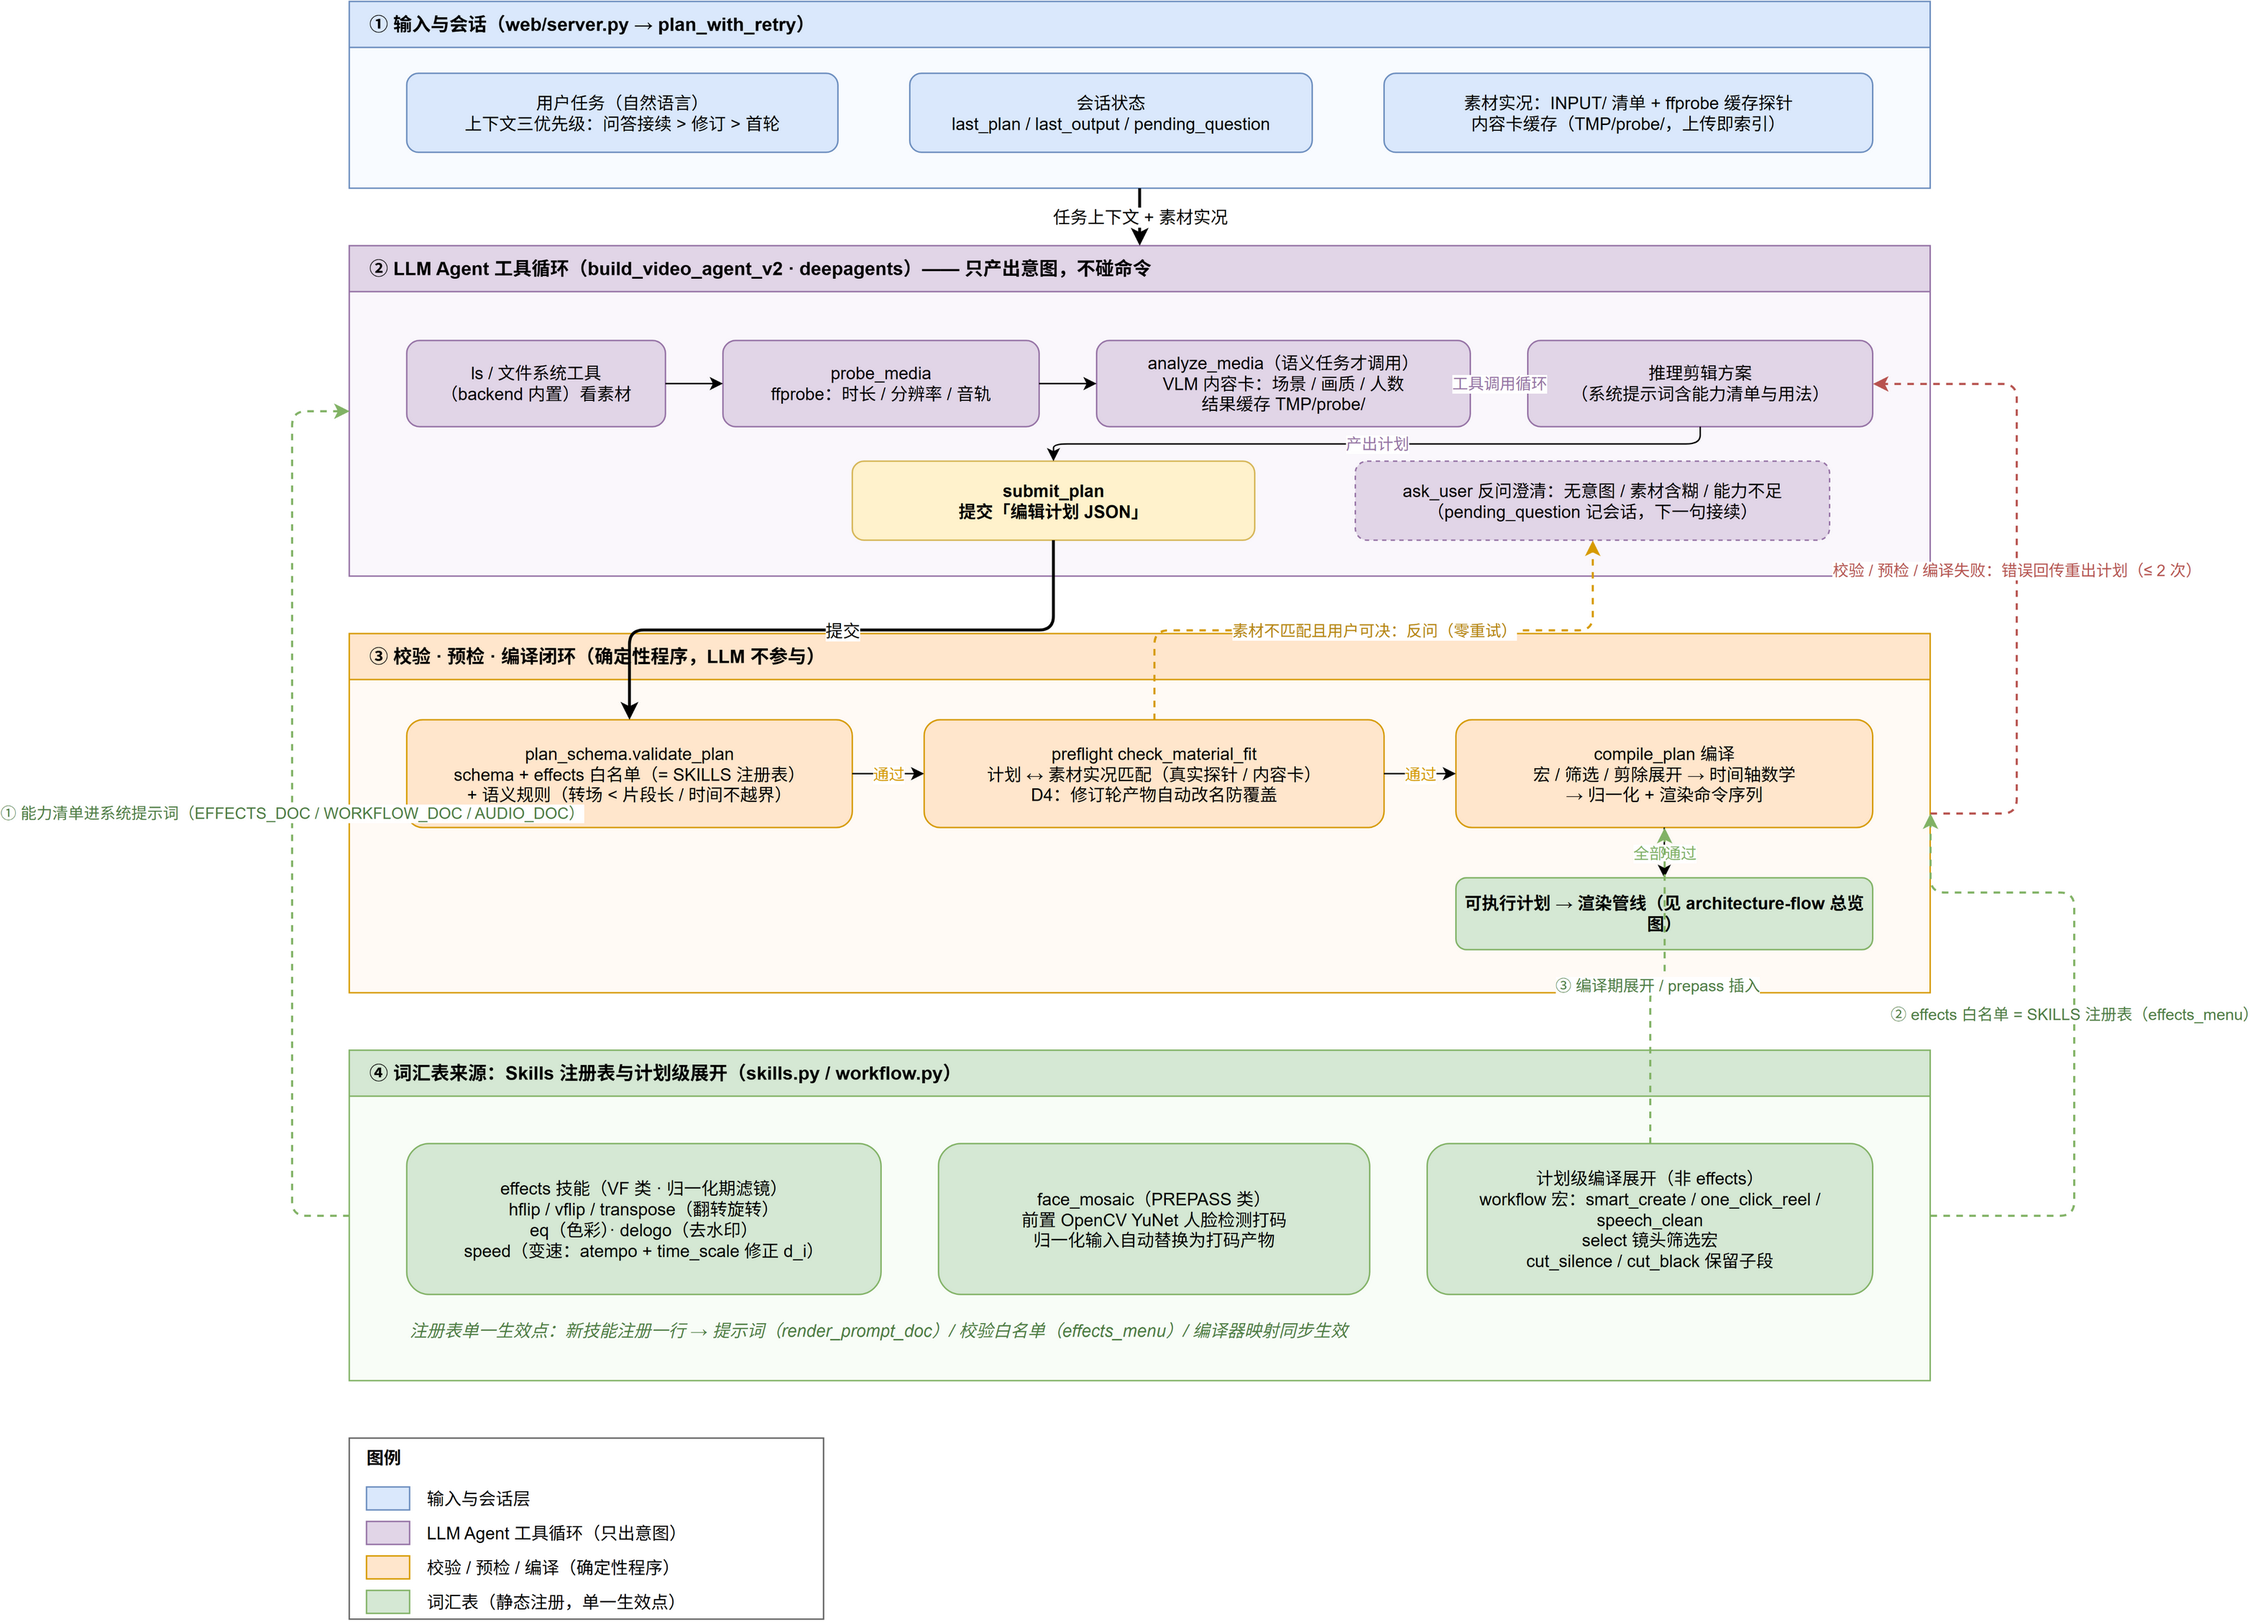
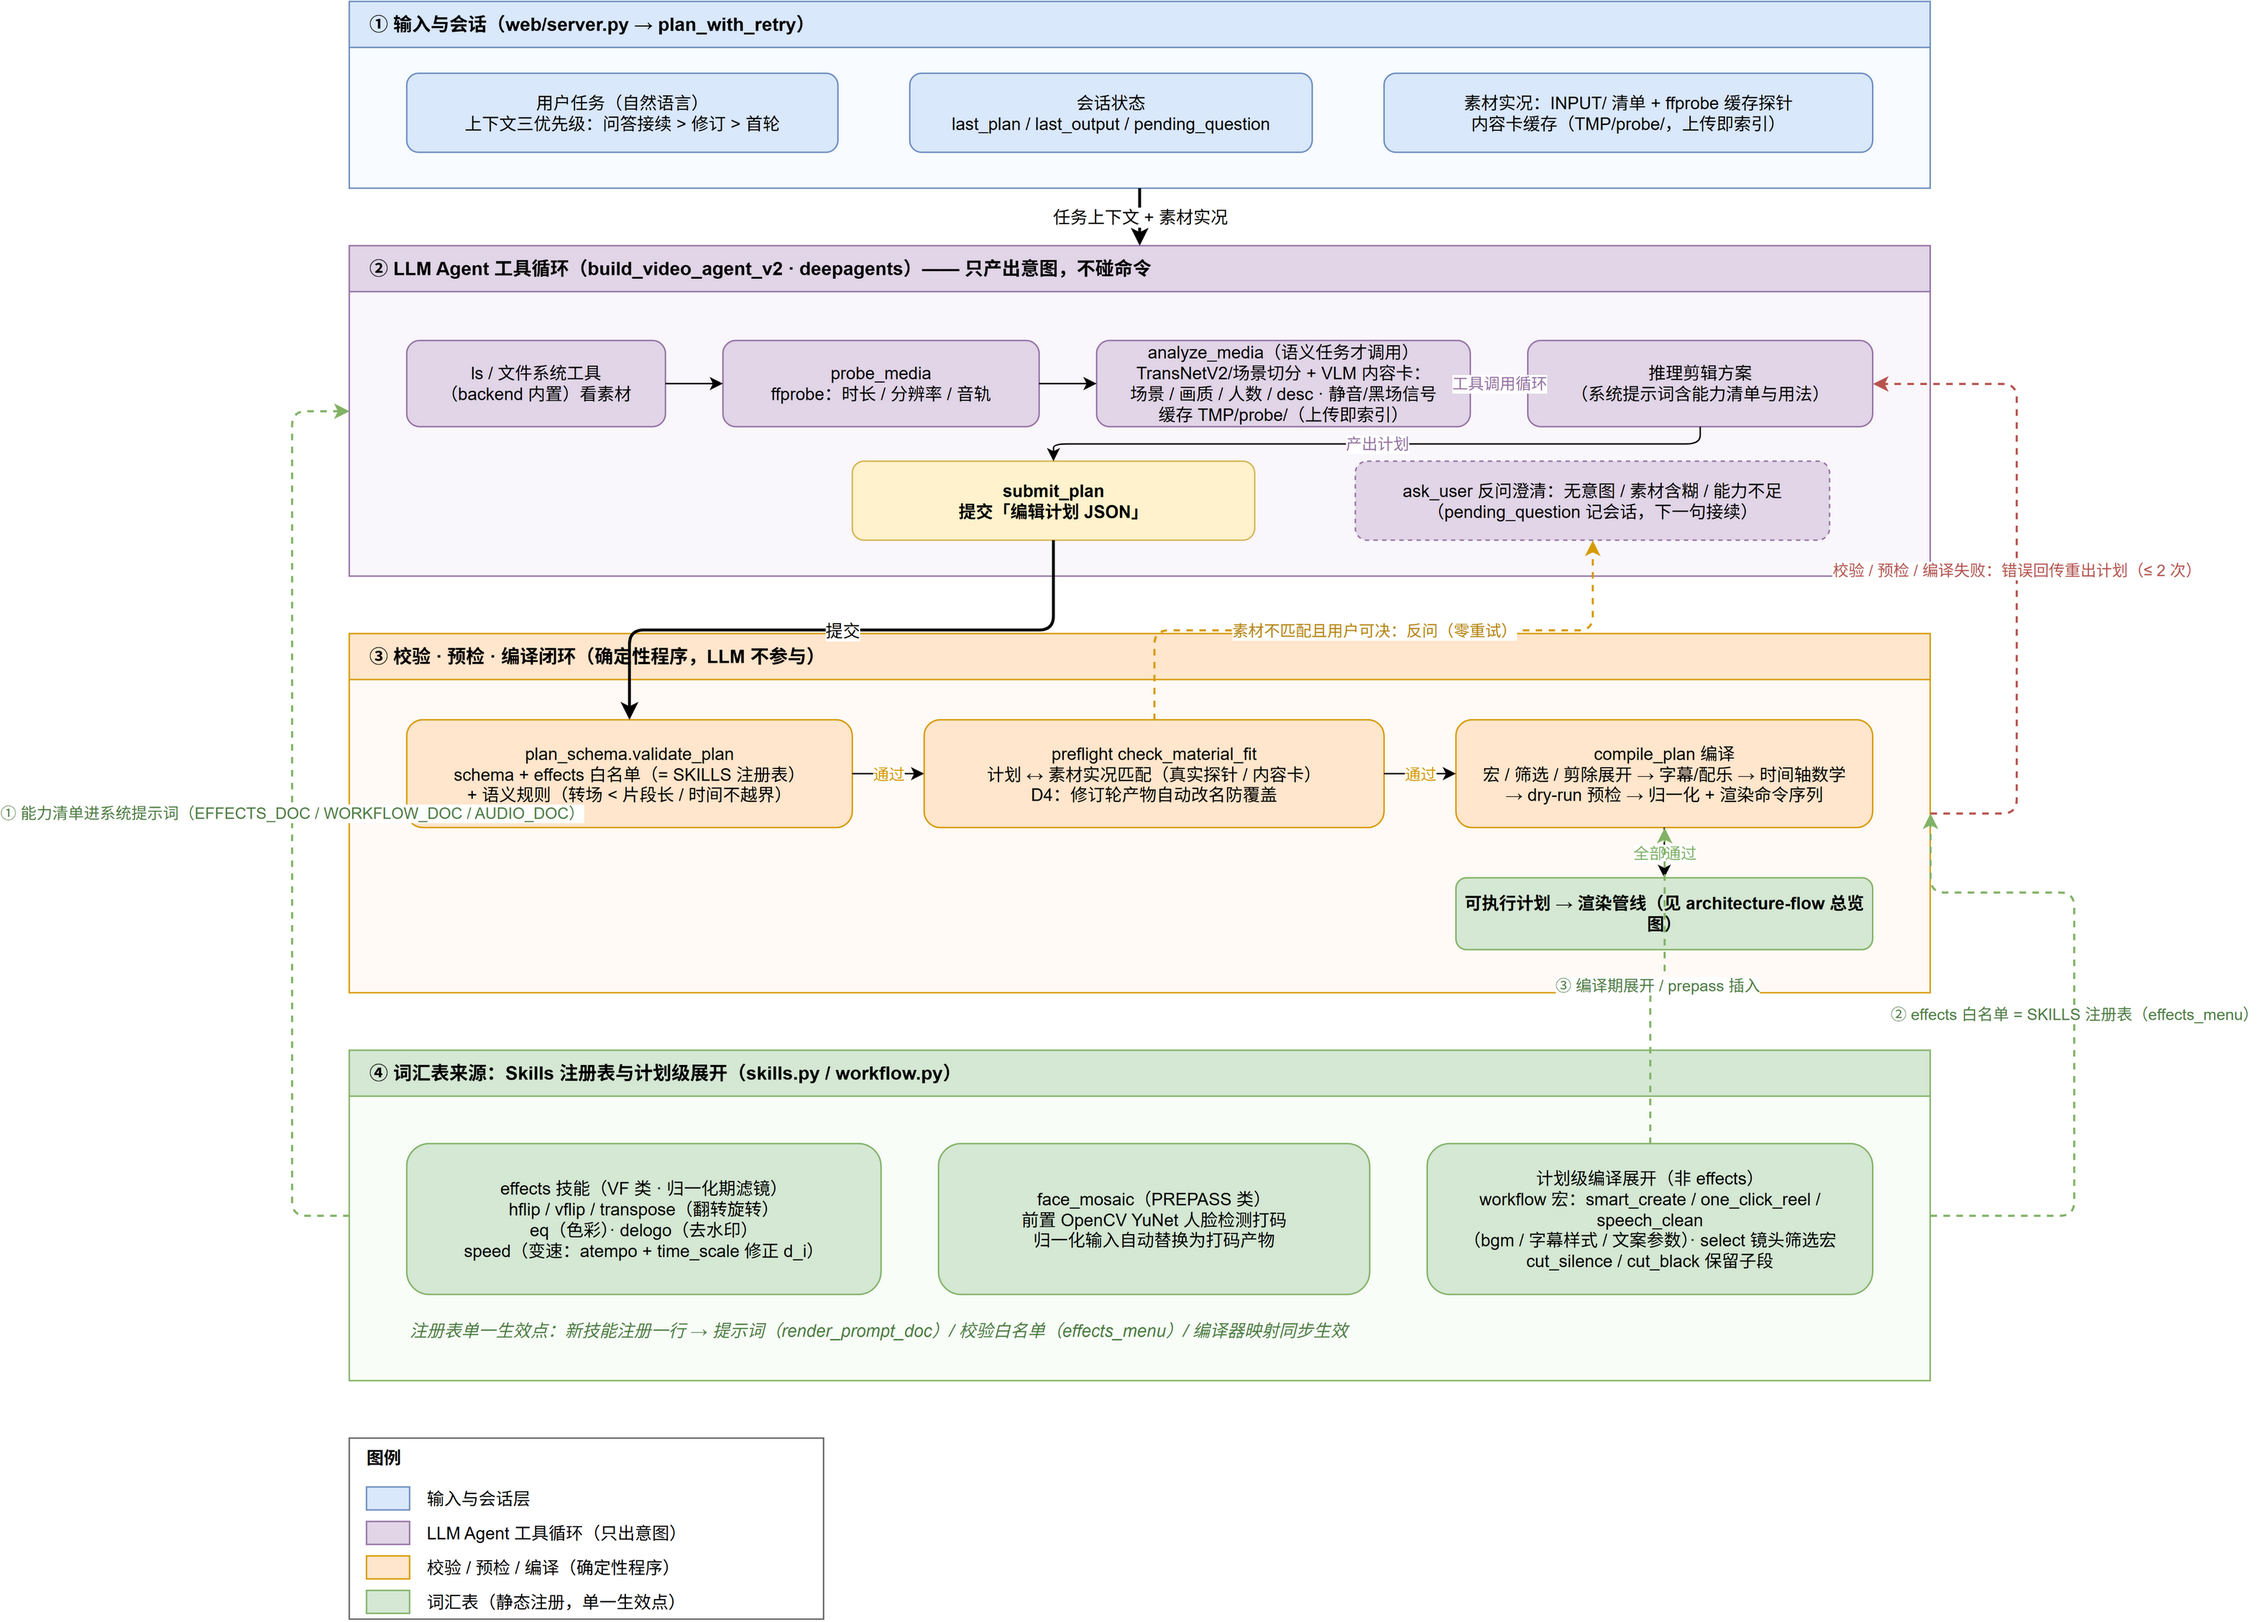
docs: 架构文档同步至 V7.10 —— overview 补齐工具清单/编译流水线/模块清单/文档索引；四张架构图更新（flow 补宏与预检/分层图去过期标记并补 TransNet·V7.7/计划生成图补信号与预检），全部重导内嵌 XML 的 PNG 并把分层图挂进 overview 引用

Changed region(s): [[0.4987, 0.2171, 0.6234, 0.2791], [0.6546, 0.7444, 0.8104, 0.7754], [0.6546, 0.4652, 0.8104, 0.4962]]

diff --git a/docs/architecture-overview.md b/docs/architecture-overview.md
@@ -1,13 +1,18 @@
 # SmartTrimAgent 实现总览
 
-> **一句话**：用户用自然语言描述剪辑需求 → LLM 产出「编辑计划 JSON」→
-> 下游编译器把计划编译成确定性命令（ffmpeg / OpenCV）执行并回验。
+> **一句话**：用户用自然语言描述剪辑需求 → LLM 产出「编辑计划 JSON」（或挑一个
+> **workflow 宏**只填参数）→ 下游编译器把计划编译成确定性命令
+> （ffmpeg / OpenCV）执行并回验。
 >
 > 配图：[architecture-flow.drawio](./architecture-flow.drawio)（可编辑）·
 > [architecture-flow.png](./architecture-flow.png)
 > 细节图（计划如何生成：Agent 工具循环 / 校验闭环 / Skills 注册表）：
 > [architecture-plan-generation.drawio](./architecture-plan-generation.drawio) ·
 > [architecture-plan-generation.png](./architecture-plan-generation.png)
+> 模块分层图（入口 / Agent / 感知 / 编译器 / 执行 + smart_create 流程页）：
+> [architecture.drawio](./architecture.drawio) ·
+> [architecture-p1-layers.drawio.png](./architecture-p1-layers.drawio.png) ·
+> [architecture-p2-smart-create.drawio.png](./architecture-p2-smart-create.drawio.png)
 
 ![架构流程](./architecture-flow.png)
 
@@ -22,13 +27,19 @@
 
 ## ② LLM 做了什么
 
-整个 Agent 环节只做三件事：
+Agent 环节的工具清单（deepagents 工具循环，模型自己决定节奏）：
 
-1. **`ls INPUT/`** —— 看有哪些素材
+1. **`ls INPUT/`** —— 看有哪些素材（文件系统工具，backend 内置）
 2. **`probe_media`** —— 探测真实时长 / 分辨率 / 有无音轨（拿到数据才能算裁剪点）
-3. **`submit_plan`** —— 提交编辑计划 JSON
+3. **`analyze_media`**（V4，语义任务才调用）—— 建立镜头级内容卡：TransNetV2 /
+   场景切分出边界，VLM 打标签（人数/场景/活动/画质/desc 画面描述），静音/黑场
+   信号并入；结果 sidecar 缓存，上传即索引，第二次零成本
+4. **`submit_plan`** —— 提交编辑计划 JSON（唯一产出物）
+5. **`ask_user`**（V3.1）—— 意图含糊 / 要求超出素材实际 / 超出能力时**先反问**，
+   与 submit_plan 互斥，不算失败
 
-**唯一产出物就是那份 JSON**，它不含任何 ffmpeg 语法，也不含任何时间轴数学：
+**唯一产出物就是那份 JSON**，它不含任何 ffmpeg 语法，也不含任何时间轴数学。
+除了手写 clips，还有两条「少写甚至不写」的路：
 
 ```json
 {
@@ -43,24 +54,43 @@
 }
 ```
 
+- **workflow 宏（V7）**：`{"workflow": {"name": "smart_create", "budget_seconds": 25}}`
+  ——LLM 只挑工作流 + 填少量参数（预算/关键词/配乐/字幕样式），「粗筛 → 选材 →
+  编排 → 文案 → 配乐」全部由编译器确定性展开（见
+  [v7.0-oneclick-and-perf.md](./v7.0-oneclick-and-perf.md)）；
+- **select 宏（V5）**：`{"select": {"sources": [...], "where": {...}, "budget_seconds": 30}}`
+  ——按内容卡标签筛选镜头，编译器从卡片确定性生成 clips，模型不手抄时间区间。
+
 ## ③ 下游做了什么
 
-编译器拿到计划后三步走，全部是确定性程序：
+编译器拿到计划后走一条确定性流水线（LLM 不参与）：
 
-1. **校验** —— schema + 白名单 + 语义规则（时间不越界、引用存在、参数合法）
-2. **推导时间轴数学** —— 片段时长 `d_i`、各片段起点 `S_i`、转场重叠后的总时长 `D`、overlay 绝对时间
-3. **生成命令序列** —— 按三个阶段展开：
+1. **校验** —— schema + 白名单 + 语义规则（时间不越界、引用存在、参数合法）；
+   Preflight 以**服务端真实探针**交叉比对计划与素材实况，模型修得了的错误回传
+   重出、只有用户能决的直接转反问（V3.1 错误分流）
+2. **宏与剪除展开** —— workflow 宏（粗筛 culling → select 选材 → 装填 → 文案
+   提供器链 plan→llm→labels → 字幕样式 bottom/credits → 自动配乐 `_attach_bgm`）；
+   `select` 从内容卡确定性生成 clips；`cut_silence` / `cut_black` 实时跑
+   silencedetect/blackdetect，静音/黑场区间**取补集**展开成保留子段
+3. **推导时间轴数学** —— 片段时长 `d_i`（含变速缩放）、各片段起点 `S_i`、
+   转场重叠后的总时长 `D`、overlay 绝对时间；smart_create 的文案在此之后
+   逐片段绑定成 text overlay
+4. **dry-run 语法预检**（T5）—— 用 0.5s 合成素材试跑整条滤镜链，坏滤镜
+   秒级拦截（V7.8 修复了 xfade offset 在预检里死锁的问题）
+5. **生成命令序列** —— 按阶段展开：
 
 | 阶段 | 干什么 | 执行者 |
 |---|---|---|
 | `detect` | 人脸检测打码（仅当计划里声明了 `face_mosaic`） | **OpenCV YuNet** |
-| `normalize` | 把异构素材统一成同分辨率 / 帧率 / 音轨 | ffmpeg |
-| `render` | 转场 + 画中画 + 花字 + 输出 | ffmpeg |
+| `normalize` | 把异构素材统一成同分辨率 / 帧率 / 音轨；clip 级 `audio`（静音/换声，V7.7）在此落地；产物**内容寻址缓存**（V7），未改片段零重编码 | ffmpeg |
+| `render` | 转场 + 画中画 + 花字/字幕 + BGM 混音（`original` 缺省 mute，V7.7）+ 按档位编码输出 | ffmpeg |
 
 `detect` 阶段的存在方式值得注意：编译器识别到 `face_mosaic` 后，**额外插入一条 Python 子命令**，
 并把后续归一化命令的输入从 `INPUT/a.mp4` 悄悄替换成打码后的 `TMP/c1_masked.mp4`。
 
-生成后由 ④ 层逐条 `subprocess` 执行，最后用 ffprobe 回验产物时长。
+生成后由 ④ 层逐条 `subprocess` 执行（detect/normalize 2 路并行，V7），最后用
+ffprobe 回验产物时长；正式档随片导出 **EDL（CMX3600）/ CSV 时间线**（V6），
+`done` 事件带审阅报告（剪除明细 / 筛选命中与落选原因 / 效果清单 / 配乐决策）。
 
 ### 渲染档位（V7.7）
 
@@ -84,25 +114,42 @@
 所以新增能力（人声分离、画面超分等）只需在编译器里加一条 `effect → 命令` 的映射，
 LLM 侧只要认识那个名字就够了。
 
-## 失败与重试
+## 失败与重试（错误按「谁能修」分流）
 
-- **Web 入口**：计划校验失败 → 把编译器的中文错误回传 LLM 重出计划（最多 2 次）
-- **CLI**：校验失败直接退出并打印错误列表
+- **模型修得了的**（schema 违规、滤镜名错、引用不存在）：编译器的中文错误回传
+  LLM 重出计划（≤2 次，连续同错提前收手；CLI 与 Web 共用同一闭环）
+- **只有用户能决的**（要前 50 秒但素材只有 12 秒、无声轨却要配乐）：Preflight
+  确定性判定后**直接反问用户**，带真实数据与修复选项，零重试
+- **agent 自己反问**（意图含糊 / 超出能力）：`ask_user` 是合法出口，不算失败
 
 ## 模块清单
 
 | 文件 | 职责 |
 |---|---|
-| `video_editing/video_agent.py` | Agent 构建、计划 schema 提示词、`extract_plan()` |
-| `video_editing/plan_schema.py` | 计划校验：白名单 + 语义规则 |
-| `video_editing/plan_compiler.py` | 编译器五步：校验 → 推导 → 生成 → 执行 → 回验 |
+| `video_editing/video_agent.py` | Agent 构建、计划 schema 提示词、`extract_plan()` / 重试三分流 |
+| `video_editing/workflow.py` | workflow 宏注册表：one_click_reel / speech_clean / smart_create；文案提供器链、字幕样式预设、自动配乐（V7.x） |
+| `video_editing/plan_schema.py` | 计划校验：白名单 + 语义规则 + Preflight 素材匹配（`check_material_fit`） |
+| `video_editing/plan_compiler.py` | 编译器：宏/剪除展开 → 时间轴推导 → 铺字幕 → dry-run 预检 → 生成 → 并行执行 → 回验 → EDL/CSV 导出 |
+| `video_editing/skills.py` | Skill 注册表：效果校验 / 命令翻译 / 提示词文档单一生效点；audio 块校验 |
+| `video_editing/content_analysis.py` | 感知层：TransNetV2/场景切分 + VLM 打标（含 desc）+ 信号并入 → 内容卡（sidecar 缓存） |
+| `video_editing/transnet.py` | TransNetV2 镜头边界检测（V7.9/V7.10，可选依赖，失败优雅回退） |
+| `video_editing/signal_detection.py` | 静音 / 黑场确定性信号（silencedetect / blackdetect） |
+| `video_editing/shot_select.py` | select 宏与装填纯函数：条件过滤 + 预算贪心/轮转 + rejected 原因 |
+| `video_editing/culling.py` | 粗筛废料判定（V6，纯规则；只建议，用户一键应用） |
+| `video_editing/timeline_export.py` | EDL（CMX3600）/ CSV 时间线导出（V6） |
 | `video_editing/face_mosaic.py` | 人脸检测打码（YuNet + 跟踪平滑 + 音频保留） |
-| `video_editing/ffmpeg_exec.py` | ffmpeg / ffprobe 执行器（未安装时返回可读错误） |
-| `web/server.py` · `web/index.html` | Web 入口：素材上传 + NDJSON 事件流 |
-| `model.py` | 模型解析（`.env` 优先级链） |
+| `video_editing/ffmpeg_exec.py` | ffmpeg / ffprobe 执行器（进程跟踪可取消；`run_binary` 供模型管道） |
+| `web/server.py` · `web/static/js/` | Web 入口：素材上传/索引、NDJSON 事件流、参数卡回改 `/api/replan`、粗筛端点 |
+| `model.py` | 模型解析（`.env` 优先级链；`get_vlm_model` 独立视觉模型） |
 
 ## 相关文档
 
+- [v7.9-transnet-rescue.md](./v7.9-transnet-rescue.md) / [v7.7-preview-quality.md](./v7.7-preview-quality.md) / [v7.7-audio-control.md](./v7.7-audio-control.md) / [v7.5-auto-bgm.md](./v7.5-auto-bgm.md) —— V7.5～V7.10 各子版本
+- [v7.0-oneclick-and-perf.md](./v7.0-oneclick-and-perf.md) —— workflow 宏 + 性能优化（VLM 并发 / 内容寻址缓存）
+- [v6.0-roughcut-loop.md](./v6.0-roughcut-loop.md) —— 粗剪减法漏斗（粗筛 / EDL / 筛选报告）
+- [v5.0-roughcut.md](./v5.0-roughcut.md) —— 粗剪信号内核 + 媒体化前端
+- [v4.0-multimodal-perception.md](./v4.0-multimodal-perception.md) —— 多模态感知层
+- [v3.1-multi-turn-interaction.md](./v3.1-multi-turn-interaction.md) —— 多轮交互 / Preflight / 幻觉三层防御
 - [v3.0-face-mosaic.md](./v3.0-face-mosaic.md) —— 人脸打码能力方案（模型选型 / 跟踪策略）
 - [v2.0-multi-material-editing.md](./v2.0-multi-material-editing.md) —— 计划 schema 与时间轴数学详解
 - [v2.0-overview.md](./v2.0-overview.md) —— v2 时期的整体方案
